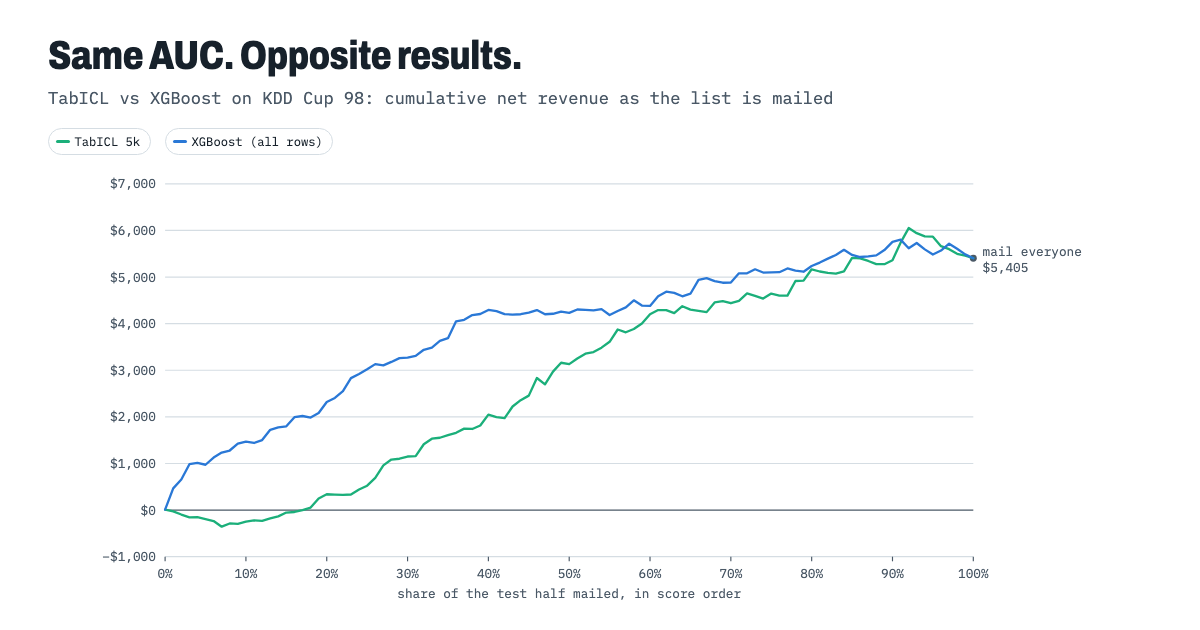
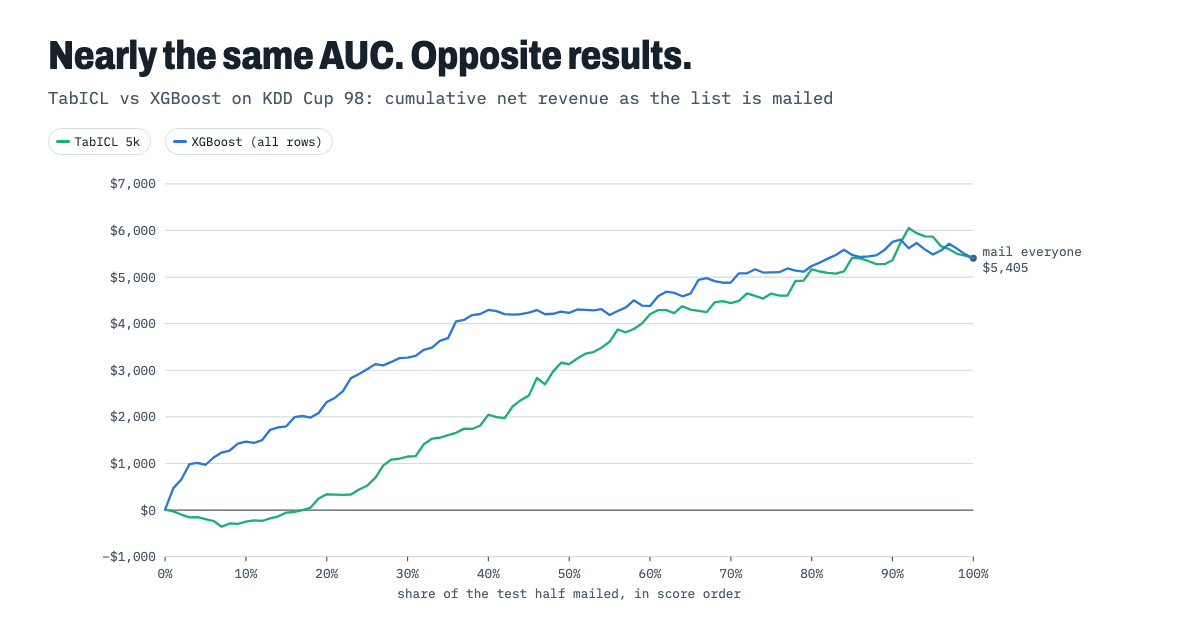
Preview headline: nearly the same AUC

Changed region(s): [[0.0308, 0.0603, 0.5858, 0.1206]]

diff --git a/index.html b/index.html
@@ -4,13 +4,13 @@
 <meta charset="utf-8">
 <meta property="og:type" content="article">
 <meta property="og:title" content="Pros and Cons of Using TabICL with the KDD Cup 98 Data">
-<meta property="og:description" content="Same AUC, opposite outcomes: TabICL, a tabular foundation model, tested against XGBoost, logistic regression, neural nets, kNN and Naive Bayes on KDD Cup 98, scored by net revenue.">
+<meta property="og:description" content="Nearly the same AUC, opposite outcomes: TabICL, a tabular foundation model, tested against XGBoost, logistic regression, neural nets, kNN and Naive Bayes on KDD Cup 98, scored by net revenue.">
 <meta property="og:url" content="https://abbottanalytics.github.io/tabicl_kdd98/">
 <meta property="og:image" content="https://abbottanalytics.github.io/tabicl_kdd98/preview.png">
 <meta property="og:image:width" content="1200">
 <meta property="og:image:height" content="630">
 <meta name="twitter:card" content="summary_large_image">
-<meta name="description" content="Same AUC, opposite outcomes: TabICL, a tabular foundation model, tested against XGBoost, logistic regression, neural nets, kNN and Naive Bayes on KDD Cup 98, scored by net revenue.">
+<meta name="description" content="Nearly the same AUC, opposite outcomes: TabICL, a tabular foundation model, tested against XGBoost, logistic regression, neural nets, kNN and Naive Bayes on KDD Cup 98, scored by net revenue.">
 <meta name="author" content="Dean Abbott">
 <meta name="viewport" content="width=device-width, initial-scale=1">
 <title>TabICL on KDD Cup 98</title>
